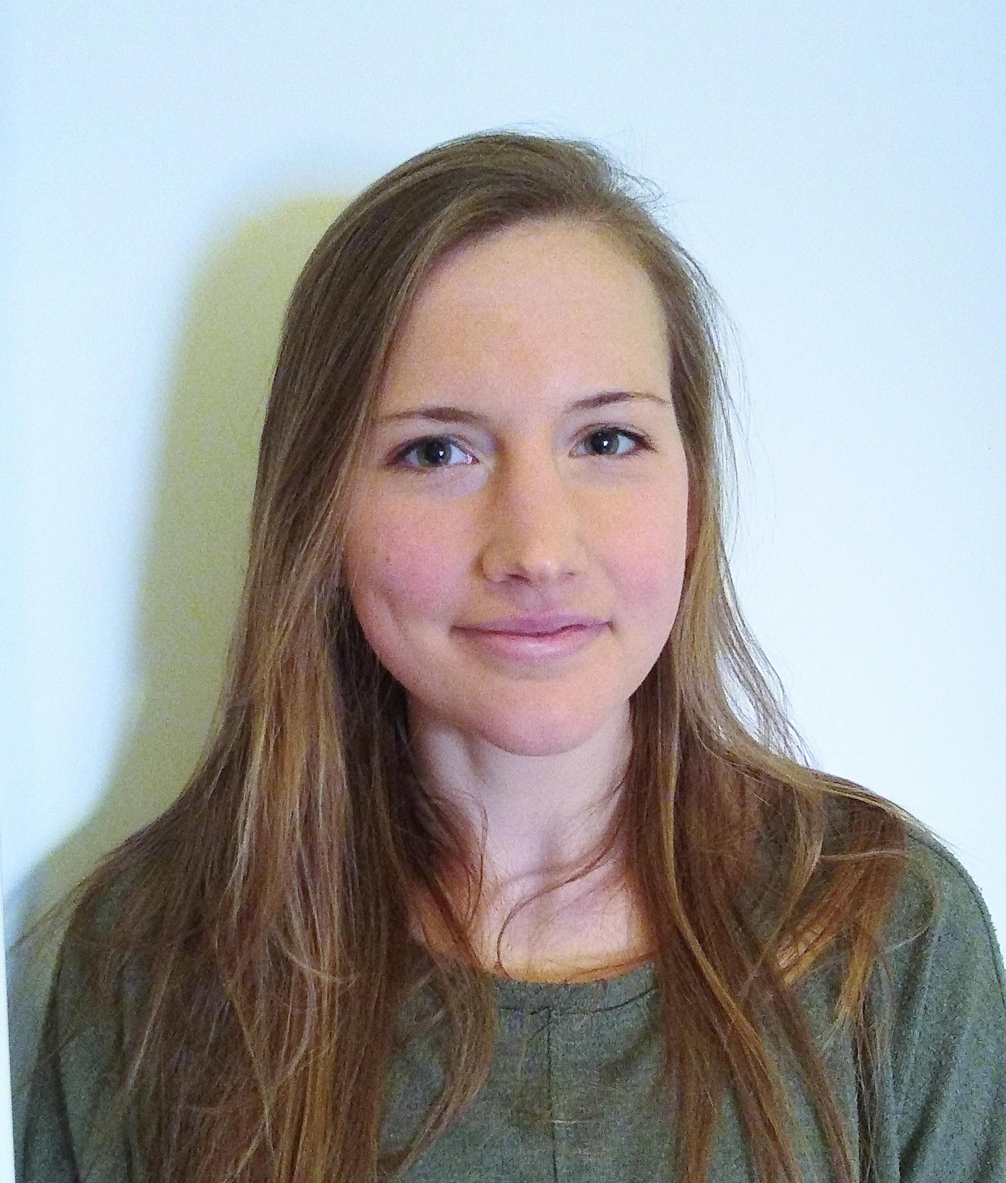
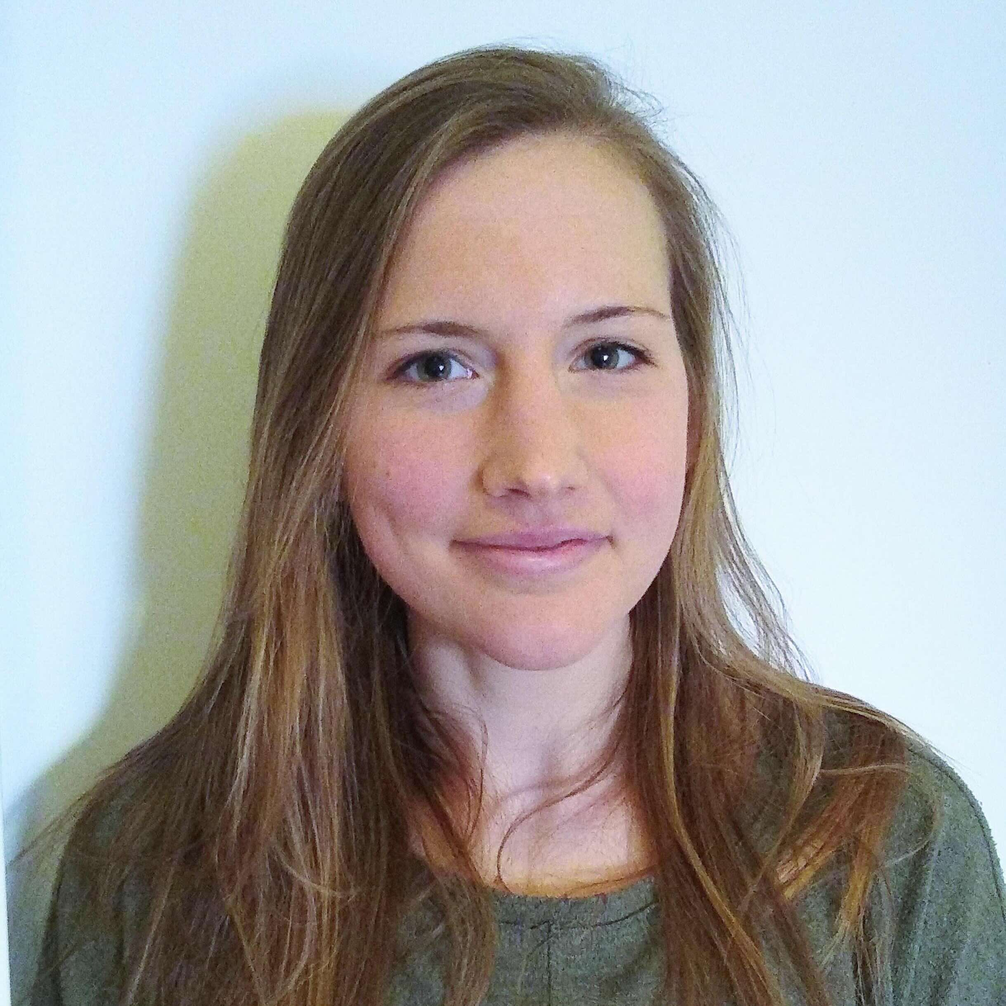
reorganize team display due to increase in members

Changed region(s): [[0.0, 0.499, 1.0, 1.0], [0.1559, 0.0312, 0.7485, 0.4678]]

diff --git a/_includes/team.html b/_includes/team.html
@@ -13,48 +13,114 @@
         <div class="row">
             {% for member in sorted_team %}
                 {% unless member.is_alumni %}
-                    {% if member.role != 'Master student' %}
-                        {% if member.role != 'Research intern' %}
-                            {% include components/member.html 
-                                member = member
-                            %}
-                        {% endif %}
+                    {% if member.role contains 'Professor' %}
+                        {% include components/member.html
+                            member = member
+                        %}
+                    {% endif %}
+                {% endunless %}
+            {% endfor %}
+            {% for member in sorted_team %}
+                {% unless member.is_alumni %}
+                    {% if member.role == 'Administration' %}
+                        {% include components/member.html
+                            member = member
+                        %}
+                    {% endif %}
+                {% endunless %}
+            {% endfor %}
+            {% for member in sorted_team %}
+                {% unless member.is_alumni %}
+                    {% if member.role == 'Postdoc' %}
+                        {% include components/member.html
+                            member = member
+                        %}
+                    {% endif %}
+                {% endunless %}
+            {% endfor %}
+            {% for member in sorted_team %}
+                {% unless member.is_alumni %}
+                    {% if member.role contains 'PhD student' %}
+                        {% include components/member.html
+                            member = member
+                        %}
                     {% endif %}
                 {% endunless %}
             {% endfor %}
         </div>
-        <h2 class="section-heading">Research interns</h2>
-        <div class="row">
-            {% for member in sorted_team %}
-                {% unless member.is_alumni %}
-                    {% if member.role == 'Research intern' %}
-                        {% include components/member.html 
-                            member = member
-                        %}
-                    {% endif %}
-                {% endunless %}
-            {% endfor %}
-        </div>  
-        <h2 class="section-heading">Master students</h2>
-        <div class="row">
-            {% for member in sorted_team %}
-                {% unless member.is_alumni %}
-                    {% if member.role == 'Master student' %}
-                        {% include components/member.html 
-                            member = member
-                        %}
-                    {% endif %}
-                {% endunless %}
-            {% endfor %}
-        </div>  
+        {% assign has_research_interns = false %}
+        {% for member in sorted_team %}
+            {% unless member.is_alumni %}
+                {% if member.role == 'Research intern' %}
+                    {% assign has_research_interns = true %}
+                {% endif %}
+            {% endunless %}
+        {% endfor %}
+        {% if has_research_interns %}
+            <h2 class="section-heading">Research interns</h2>
+            <div class="row">
+                {% for member in sorted_team %}
+                    {% unless member.is_alumni %}
+                        {% if member.role == 'Research intern' %}
+                            {% include components/member.html
+                                member = member
+                            %}
+                        {% endif %}
+                    {% endunless %}
+                {% endfor %}
+            </div>
+        {% endif %}
+
+        {% assign has_master_students = false %}
+        {% for member in sorted_team %}
+            {% unless member.is_alumni %}
+                {% if member.role == 'Master student' %}
+                    {% assign has_master_students = true %}
+                {% endif %}
+            {% endunless %}
+        {% endfor %}
+        {% if has_master_students %}
+            <h2 class="section-heading">Master students</h2>
+            <div class="row">
+                {% for member in sorted_team %}
+                    {% unless member.is_alumni %}
+                        {% if member.role == 'Master student' %}
+                            {% include components/member.html
+                                member = member
+                            %}
+                        {% endif %}
+                    {% endunless %}
+                {% endfor %}
+            </div>
+        {% endif %}
 
         <br/>
         <div class="row alumni">
-            <strong>Alumni:</strong>
+            <h3>Postdoctoral alumni</h3>
+            <ul>
+            {% for member in sorted_team %}
+                {% if member.is_alumni and member.role == 'Postdoc' %}
+                    <li>{{member.first_name}} {{member.last_name}} <em>({{member.role}})</em></li>
+                {% endif %}
+            {% endfor %}
+            </ul>
+
+            <h3>PhD alumni</h3>
+            <ul>
+            {% for member in sorted_team %}
+                {% if member.is_alumni and member.role contains 'PhD student' %}
+                    <li>{{member.first_name}} {{member.last_name}} <em>({{member.role}})</em></li>
+                {% endif %}
+            {% endfor %}
+            </ul>
+
+            <h3>Student and intern alumni</h3>
             <ul>
             {% for member in sorted_team %}
                 {% if member.is_alumni %}
-                    <li>{{member.first_name}} {{member.last_name}} <em>({{member.role}})</em></li>
+                    {% unless member.role == 'Postdoc' or member.role contains 'PhD student' %}
+                        <li>{{member.first_name}} {{member.last_name}} <em>({{member.role}})</em></li>
+                    {% endunless %}
                 {% endif %}
             {% endfor %}
             </ul>
